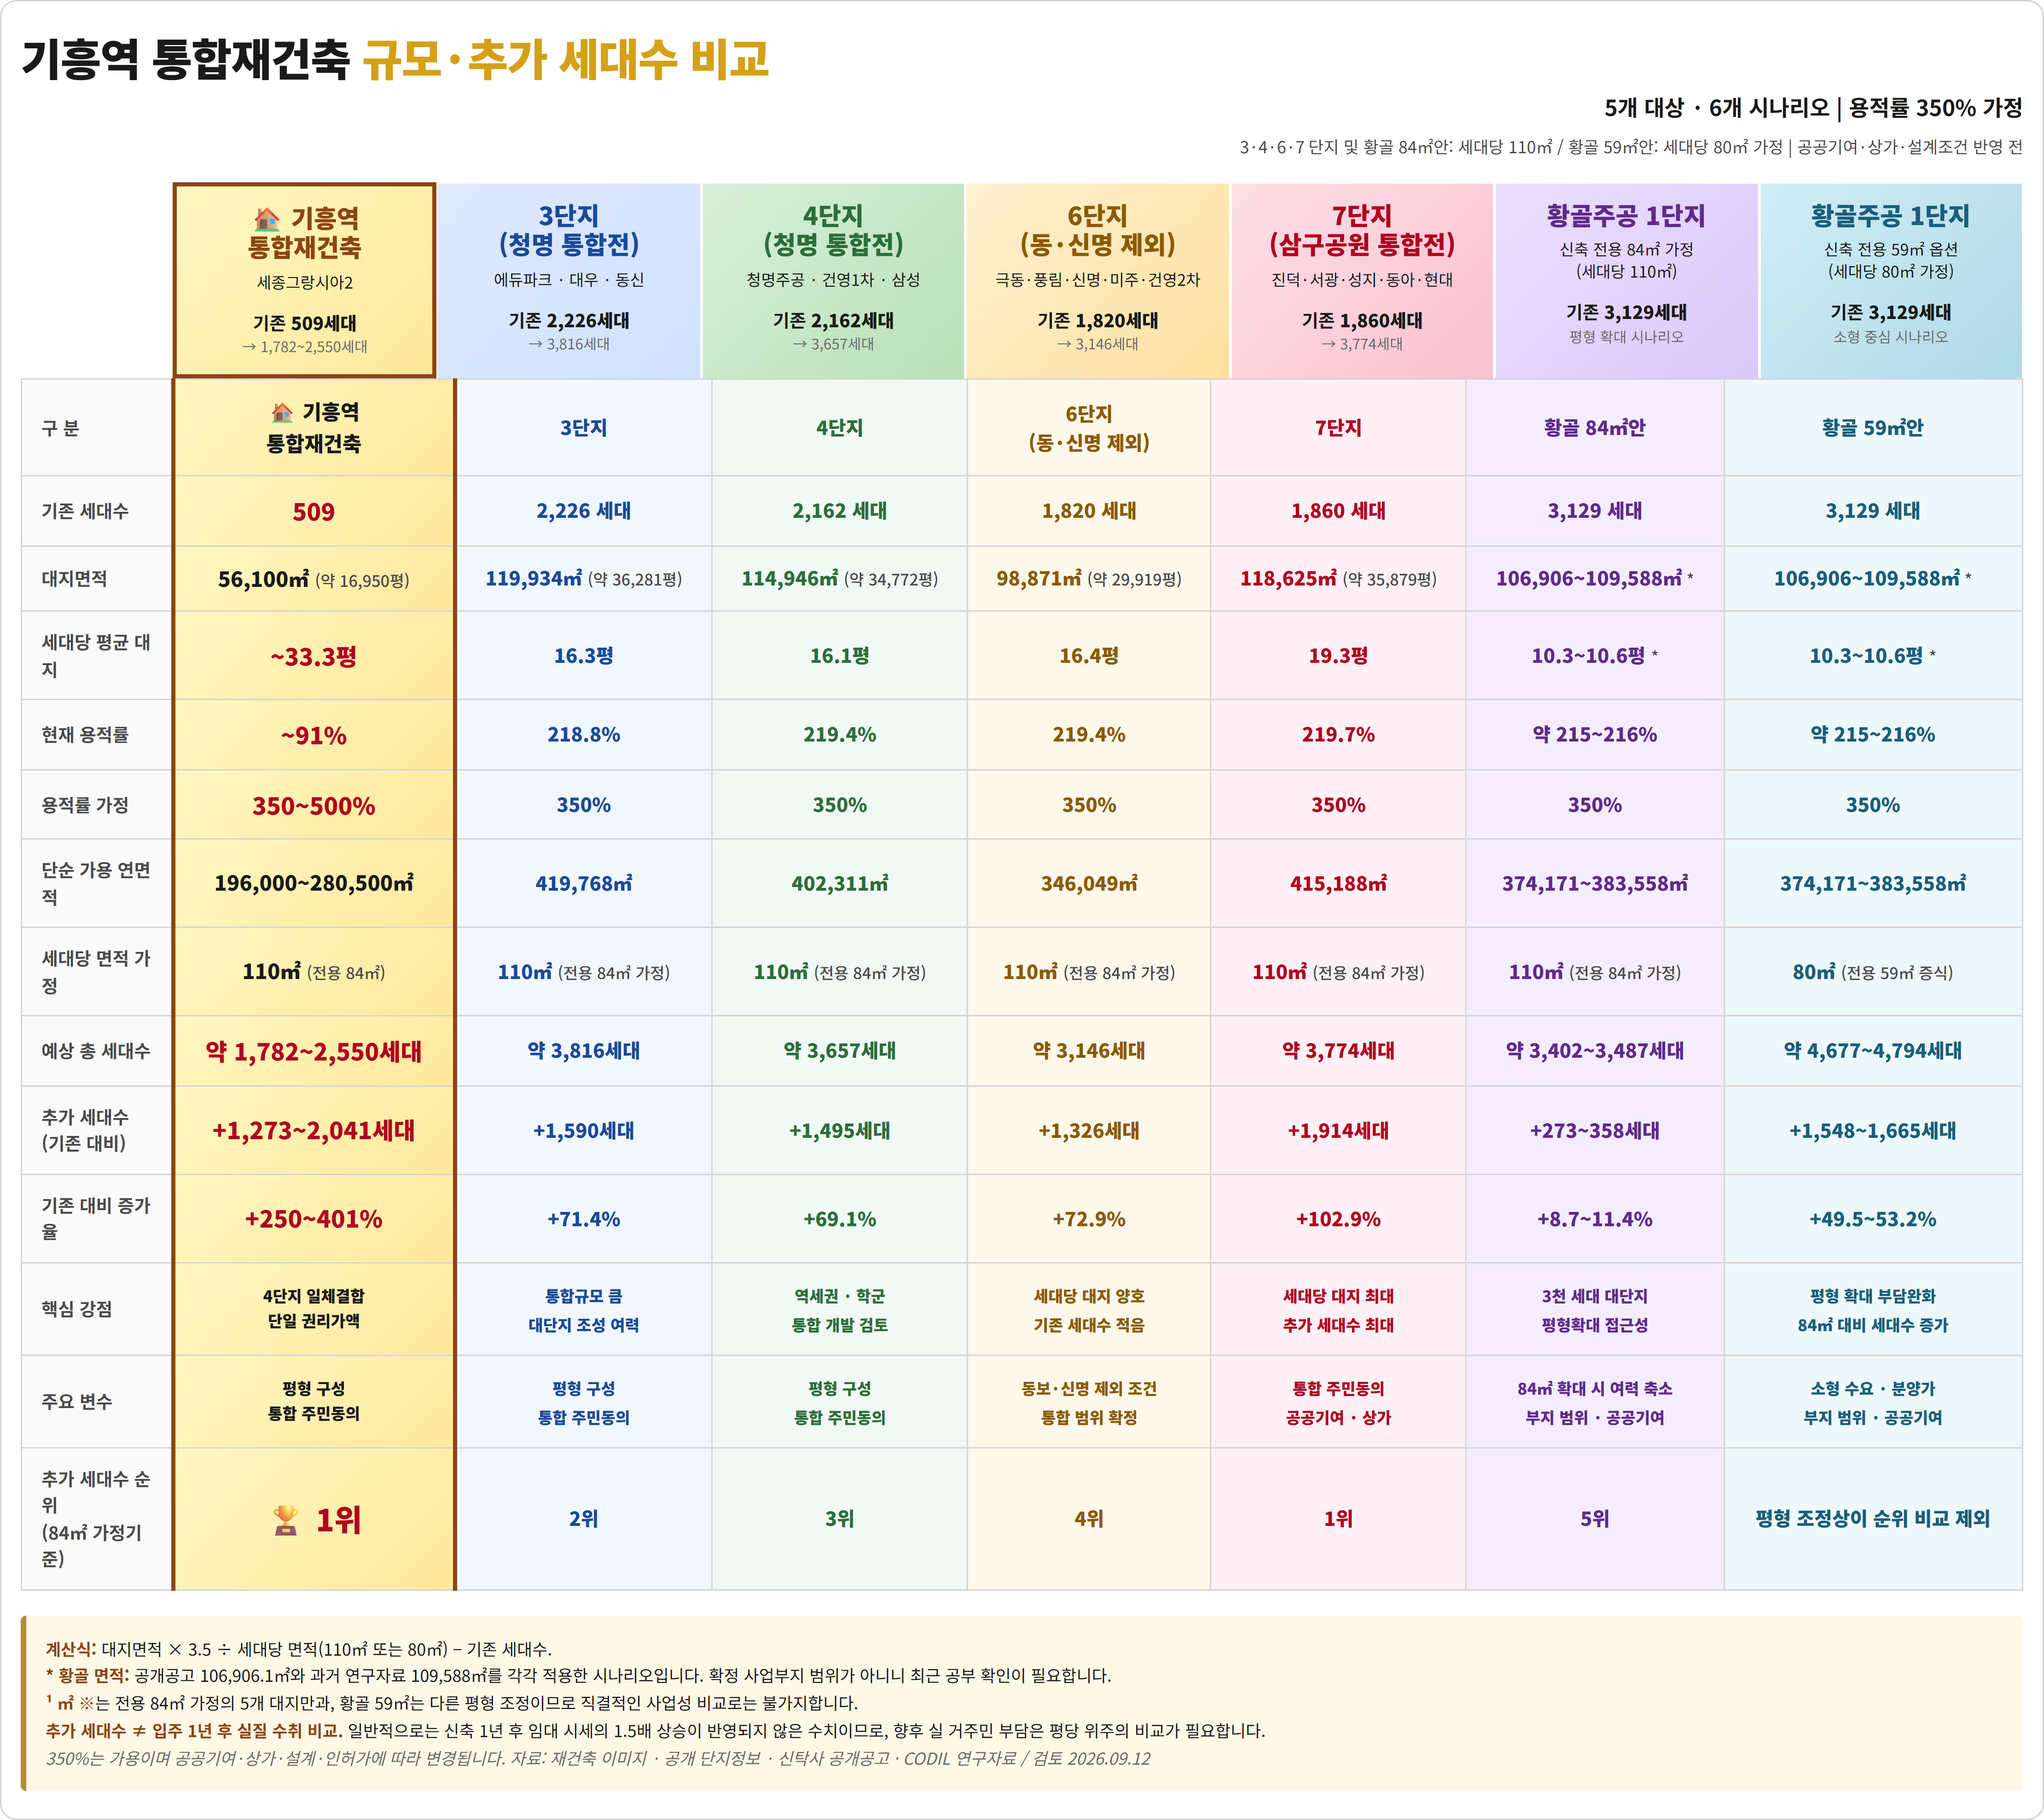
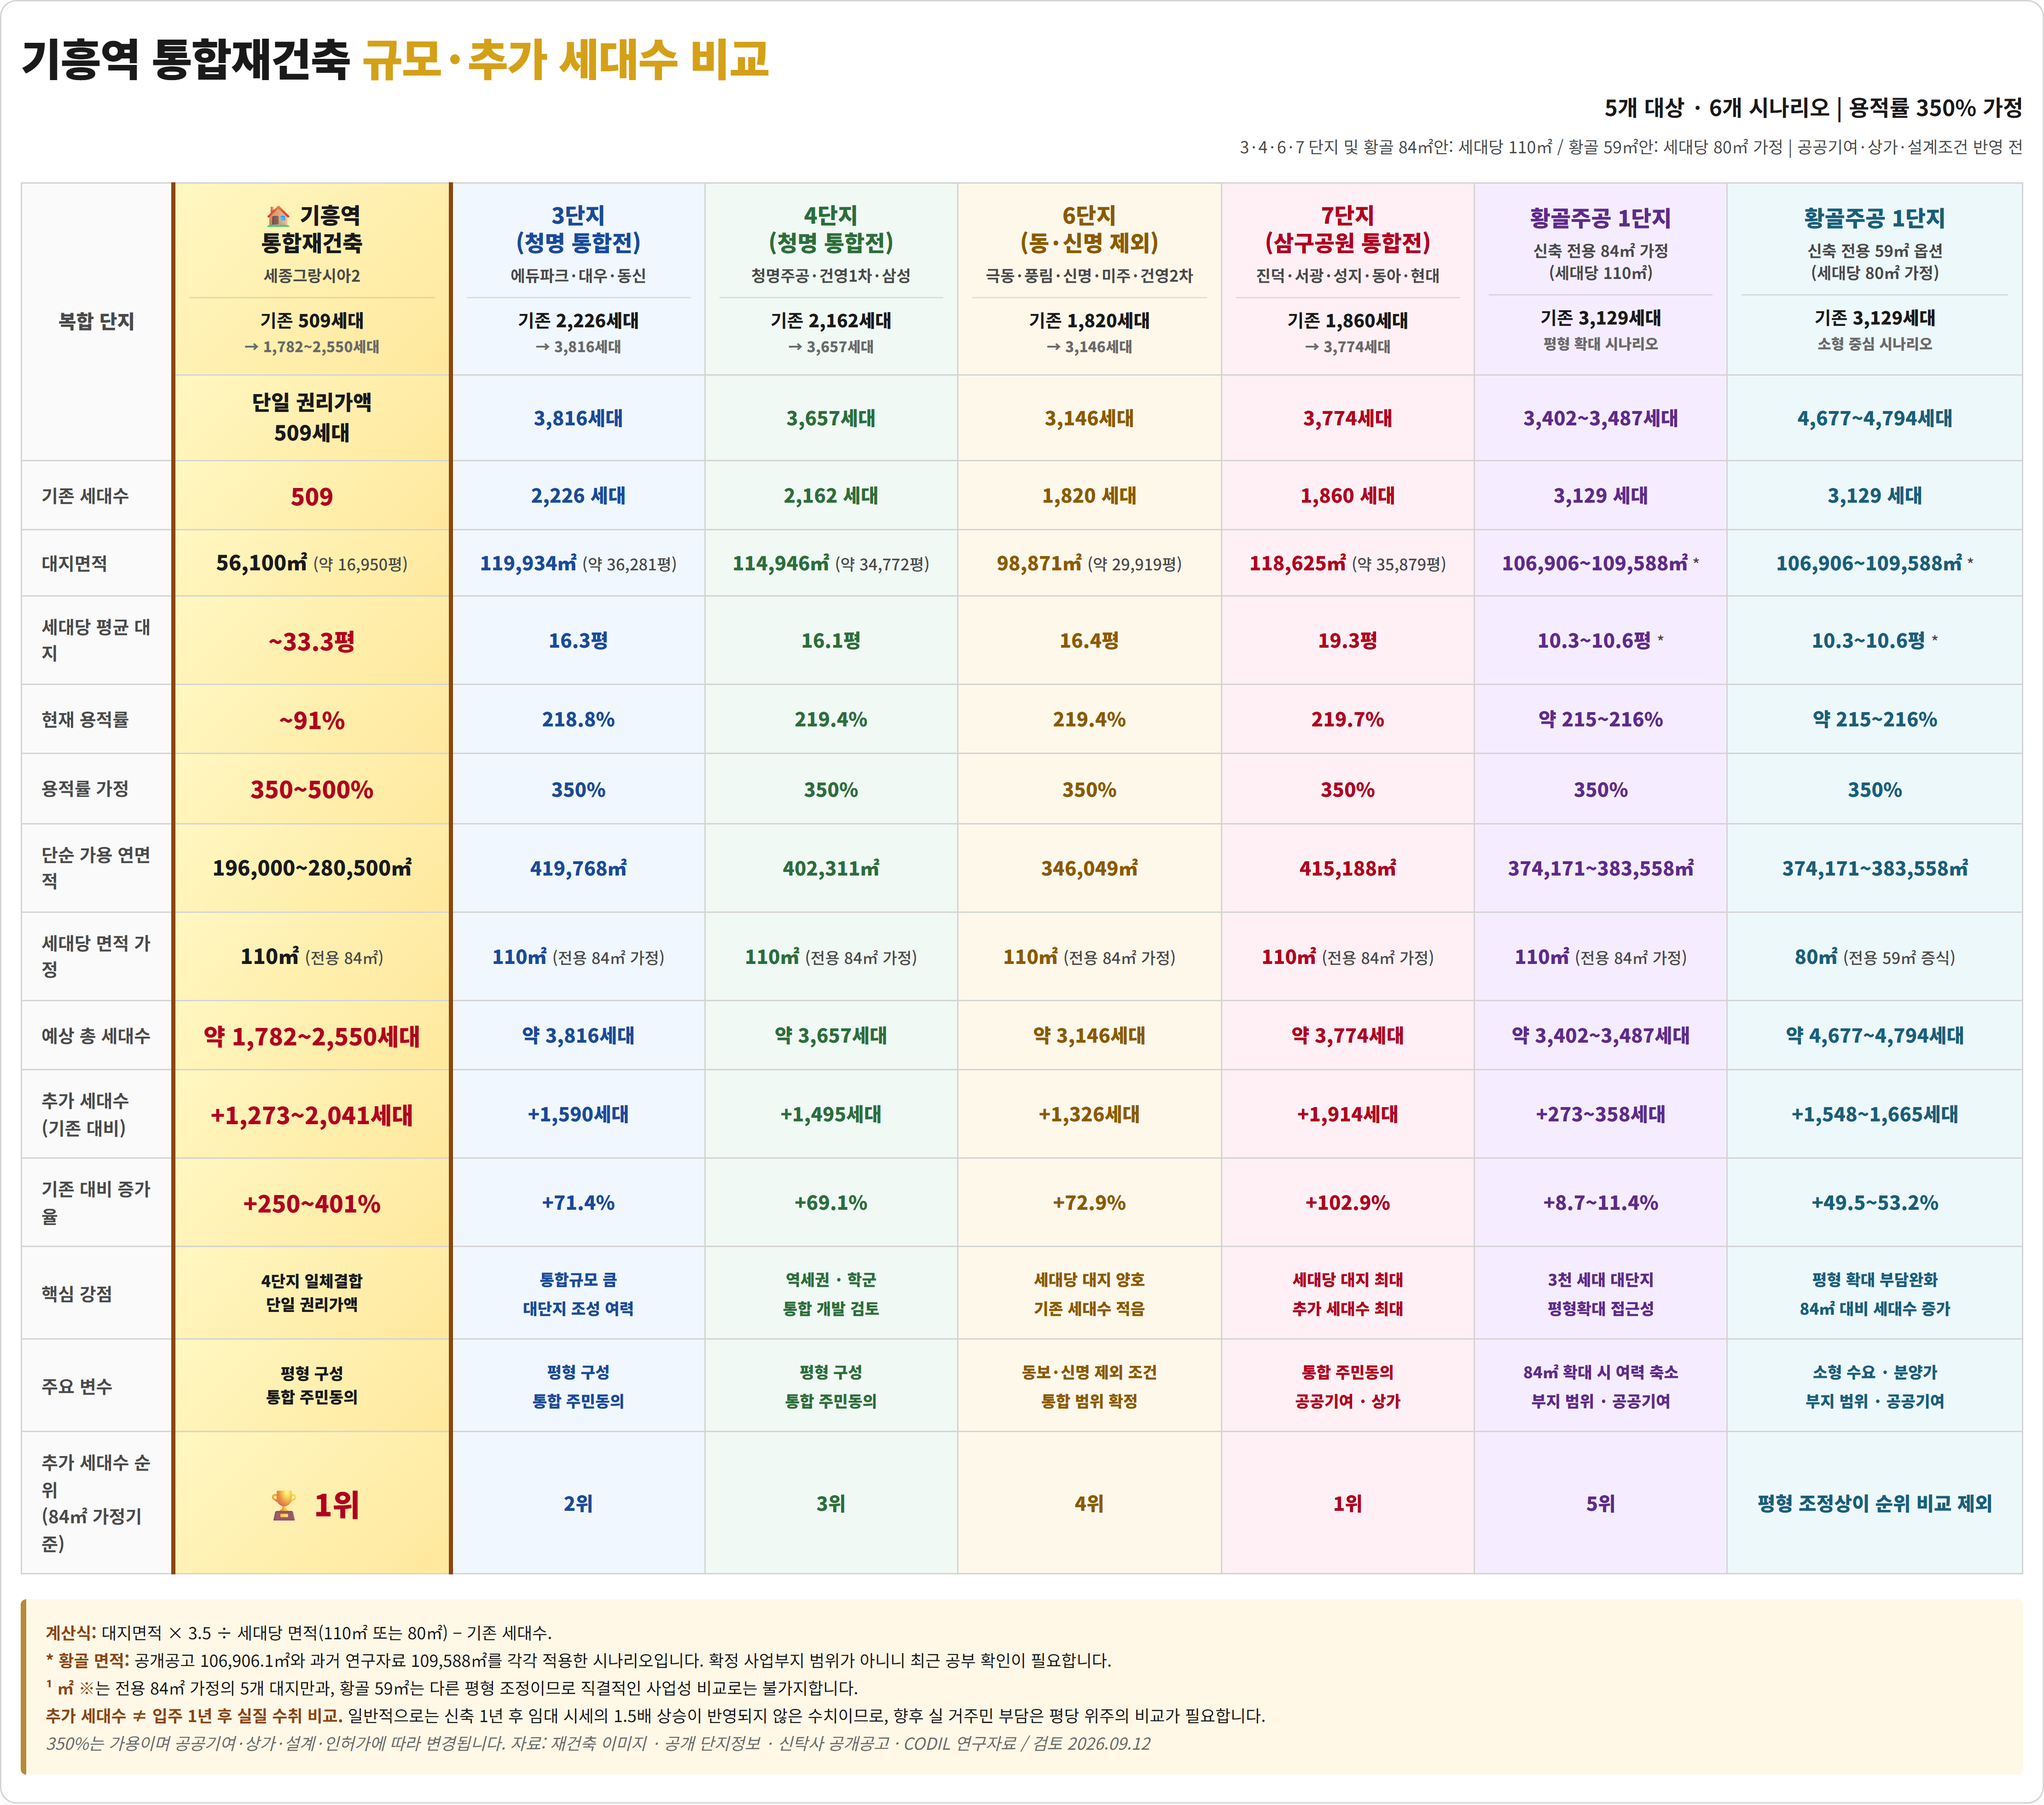
v89: 헤더+데이터를 단일 <table>로 통합, colgroup으로 컬럼 폭 고정 (perfect align)

diff --git a/compare-image.html b/compare-image.html
@@ -52,57 +52,47 @@
     gap: 0;
     margin-bottom: 0;
   }
-  .header-cell {
-    padding: 12px 10px;
-    border: 1px solid #fff;
-    border-bottom: 0;
-    text-align: center;
+  .row-label-complex {
     background: #fafafa;
-    min-height: 110px;
-    display: flex;
-    flex-direction: column;
-    justify-content: flex-start;
+    font-weight: 800;
+    font-size: 14px;
+    text-align: center;
+    color: #4a4a4a;
+    padding: 14px 10px;
+    border-right: 2px solid #b8893a;
   }
-  .header-cell.empty { background: transparent; border: none; }
-  .header-cell-name {
-    font-size: 18px;
+  .h-name {
+    font-size: 16px;
     font-weight: 900;
     margin-bottom: 6px;
-    line-height: 1.2;
+    line-height: 1.25;
   }
-  .header-cell-sub {
-    font-size: 12px;
-    color: #1a1a1a;
+  .h-sub {
+    font-size: 11.5px;
+    color: #4a4a4a;
     margin-bottom: 8px;
+    line-height: 1.4;
     font-weight: 600;
   }
-  .header-cell-detail {
-    font-size: 11.5px;
-    color: #1a1a1a;
-    line-height: 1.4;
-    margin-bottom: 8px;
-  }
-  .header-cell-image {
-    width: 100%;
-    height: 80px;
-    background: #e8e8e8;
-    border-radius: 6px;
-    display: flex;
-    align-items: center;
-    justify-content: center;
-    font-size: 11px;
-    color: #6a6a6a;
-    margin: 6px 0;
-  }
-  .header-cell-meta {
+  .h-meta {
     font-size: 13px;
     font-weight: 700;
     color: #1a1a1a;
-    margin-top: 4px;
+    margin-top: 6px;
+    padding-top: 6px;
+    border-top: 1px solid rgba(0,0,0,0.1);
   }
-  .header-cell-meta-sub {
+  .h-meta strong { font-weight: 900; }
+  .h-meta-sub {
     font-size: 10.5px;
     color: #6a6a6a;
+    margin-top: 2px;
+  }
+  .col-subheader {
+    font-size: 12px;
+    font-weight: 800;
+    padding: 8px 10px !important;
+    border-top: 0;
   }
   /* === COMPLEX COLORS (matching attachment) === */
   .header-cell.col-ours {
@@ -199,95 +189,76 @@
   <p class="compare-subtitle-mini">5개 대상 · 6개 시나리오 | 용적률 350% 가정</p>
   <p class="compare-meta">3·4·6·7 단지 및 황골 84㎡안: 세대당 110㎡ / 황골 59㎡안: 세대당 80㎡ 가정 | 공공기여·상가·설계조건 반영 전</p>
 
-  <!-- Header row of complex boxes -->
-  <div class="compare-header-row">
-    <div class="header-cell empty"></div>
-    <div class="header-cell col-ours">
-      <div>
-        <div class="header-cell-name">🏠 기흥역<br>통합재건축</div>
-        <div class="header-cell-detail">세종그랑시아2</div>
-      </div>
-      <div>
-        <div class="header-cell-meta">기존 <strong>509세대</strong></div>
-        <div class="header-cell-meta-sub">→ 1,782~2,550세대</div>
-      </div>
-    </div>
-    <div class="header-cell col-3">
-      <div>
-        <div class="header-cell-name">3단지<br>(청명 통합전)</div>
-        <div class="header-cell-detail">에듀파크 · 대우 · 동신</div>
-      </div>
-      <div>
-        <div class="header-cell-meta">기존 <strong>2,226세대</strong></div>
-        <div class="header-cell-meta-sub">→ 3,816세대</div>
-      </div>
-    </div>
-    <div class="header-cell col-4">
-      <div>
-        <div class="header-cell-name">4단지<br>(청명 통합전)</div>
-        <div class="header-cell-detail">청명주공 · 건영1차 · 삼성</div>
-      </div>
-      <div>
-        <div class="header-cell-meta">기존 <strong>2,162세대</strong></div>
-        <div class="header-cell-meta-sub">→ 3,657세대</div>
-      </div>
-    </div>
-    <div class="header-cell col-6">
-      <div>
-        <div class="header-cell-name">6단지<br>(동·신명 제외)</div>
-        <div class="header-cell-detail">극동·풍림·신명·미주·건영2차</div>
-      </div>
-      <div>
-        <div class="header-cell-meta">기존 <strong>1,820세대</strong></div>
-        <div class="header-cell-meta-sub">→ 3,146세대</div>
-      </div>
-    </div>
-    <div class="header-cell col-7">
-      <div>
-        <div class="header-cell-name">7단지<br>(삼구공원 통합전)</div>
-        <div class="header-cell-detail">진덕·서광·성지·동아·현대</div>
-      </div>
-      <div>
-        <div class="header-cell-meta">기존 <strong>1,860세대</strong></div>
-        <div class="header-cell-meta-sub">→ 3,774세대</div>
-      </div>
-    </div>
-    <div class="header-cell col-84">
-      <div>
-        <div class="header-cell-name">황골주공 1단지</div>
-        <div class="header-cell-detail">신축 전용 84㎡ 가정<br>(세대당 110㎡)</div>
-      </div>
-      <div>
-        <div class="header-cell-meta">기존 <strong>3,129세대</strong></div>
-        <div class="header-cell-meta-sub">평형 확대 시나리오</div>
-      </div>
-    </div>
-    <div class="header-cell col-59">
-      <div>
-        <div class="header-cell-name">황골주공 1단지</div>
-        <div class="header-cell-detail">신축 전용 59㎡ 옵션<br>(세대당 80㎡ 가정)</div>
-      </div>
-      <div>
-        <div class="header-cell-meta">기존 <strong>3,129세대</strong></div>
-        <div class="header-cell-meta-sub">소형 중심 시나리오</div>
-      </div>
-    </div>
-  </div>
+  
+  
 
   <!-- Data table -->
   <table class="compare-table">
+    <colgroup>
+      <col style="width: 110px;">
+      <col>
+      <col>
+      <col>
+      <col>
+      <col>
+      <col>
+      <col>
+    </colgroup>
     <thead>
       <tr>
-        <th class="row-label" rowspan="2" style="background:#fafafa;">구 분</th>
-        <th class="col-data-ours">🏠 기흥역<br>통합재건축</th>
-        <th class="col-data-3">3단지</th>
-        <th class="col-data-4">4단지</th>
-        <th class="col-data-6">6단지<br>(동·신명 제외)</th>
-        <th class="col-data-7">7단지</th>
-        <th class="col-data-84">황골 84㎡안</th>
-        <th class="col-data-59">황골 59㎡안</th>
+        <th class="row-label-complex" rowspan="2">복합 단지</th>
+        <th class="col-data-ours">
+          <div class="h-name">🏠 기흥역<br>통합재건축</div>
+          <div class="h-sub">세종그랑시아2</div>
+          <div class="h-meta">기존 <strong>509세대</strong></div>
+          <div class="h-meta-sub">→ 1,782~2,550세대</div>
+        </th>
+        <th class="col-data-3">
+          <div class="h-name">3단지<br>(청명 통합전)</div>
+          <div class="h-sub">에듀파크·대우·동신</div>
+          <div class="h-meta">기존 <strong>2,226세대</strong></div>
+          <div class="h-meta-sub">→ 3,816세대</div>
+        </th>
+        <th class="col-data-4">
+          <div class="h-name">4단지<br>(청명 통합전)</div>
+          <div class="h-sub">청명주공·건영1차·삼성</div>
+          <div class="h-meta">기존 <strong>2,162세대</strong></div>
+          <div class="h-meta-sub">→ 3,657세대</div>
+        </th>
+        <th class="col-data-6">
+          <div class="h-name">6단지<br>(동·신명 제외)</div>
+          <div class="h-sub">극동·풍림·신명·미주·건영2차</div>
+          <div class="h-meta">기존 <strong>1,820세대</strong></div>
+          <div class="h-meta-sub">→ 3,146세대</div>
+        </th>
+        <th class="col-data-7">
+          <div class="h-name">7단지<br>(삼구공원 통합전)</div>
+          <div class="h-sub">진덕·서광·성지·동아·현대</div>
+          <div class="h-meta">기존 <strong>1,860세대</strong></div>
+          <div class="h-meta-sub">→ 3,774세대</div>
+        </th>
+        <th class="col-data-84">
+          <div class="h-name">황골주공 1단지</div>
+          <div class="h-sub">신축 전용 84㎡ 가정<br>(세대당 110㎡)</div>
+          <div class="h-meta">기존 <strong>3,129세대</strong></div>
+          <div class="h-meta-sub">평형 확대 시나리오</div>
+        </th>
+        <th class="col-data-59">
+          <div class="h-name">황골주공 1단지</div>
+          <div class="h-sub">신축 전용 59㎡ 옵션<br>(세대당 80㎡ 가정)</div>
+          <div class="h-meta">기존 <strong>3,129세대</strong></div>
+          <div class="h-meta-sub">소형 중심 시나리오</div>
+        </th>
       </tr>
-      <tr></tr>
+      <tr>
+        <th class="col-data-ours col-subheader">단일 권리가액<br>509세대</th>
+        <th class="col-data-3 col-subheader">3,816세대</th>
+        <th class="col-data-4 col-subheader">3,657세대</th>
+        <th class="col-data-6 col-subheader">3,146세대</th>
+        <th class="col-data-7 col-subheader">3,774세대</th>
+        <th class="col-data-84 col-subheader">3,402~3,487세대</th>
+        <th class="col-data-59 col-subheader">4,677~4,794세대</th>
+      </tr>
     </thead>
     <tbody>
       <tr><th class="row-label">기존 세대수</th><td class="col-data-ours"><span class="num">509</span></td><td class="col-data-3">2,226 세대</td><td class="col-data-4">2,162 세대</td><td class="col-data-6">1,820 세대</td><td class="col-data-7">1,860 세대</td><td class="col-data-84">3,129 세대</td><td class="col-data-59">3,129 세대</td></tr>
@@ -303,6 +274,7 @@
       <tr><th class="row-label">핵심 강점</th><td class="col-data-ours"><span style="font-size:11.5px;line-height:1.5;display:block;">4단지 일체결합<br>단일 권리가액</span></td><td class="col-data-3"><span style="font-size:11.5px;">통합규모 큼<br>대단지 조성 여력</span></td><td class="col-data-4"><span style="font-size:11.5px;">역세권 · 학군<br>통합 개발 검토</span></td><td class="col-data-6"><span style="font-size:11.5px;">세대당 대지 양호<br>기존 세대수 적음</span></td><td class="col-data-7"><span style="font-size:11.5px;">세대당 대지 최대<br>추가 세대수 최대</span></td><td class="col-data-84"><span style="font-size:11.5px;">3천 세대 대단지<br>평형확대 접근성</span></td><td class="col-data-59"><span style="font-size:11.5px;">평형 확대 부담완화<br>84㎡ 대비 세대수 증가</span></td></tr>
       <tr><th class="row-label">주요 변수</th><td class="col-data-ours"><span style="font-size:11.5px;line-height:1.5;display:block;">평형 구성<br>통합 주민동의</span></td><td class="col-data-3"><span style="font-size:11.5px;">평형 구성<br>통합 주민동의</span></td><td class="col-data-4"><span style="font-size:11.5px;">평형 구성<br>통합 주민동의</span></td><td class="col-data-6"><span style="font-size:11.5px;">동보·신명 제외 조건<br>통합 범위 확정</span></td><td class="col-data-7"><span style="font-size:11.5px;">통합 주민동의<br>공공기여 · 상가</span></td><td class="col-data-84"><span style="font-size:11.5px;">84㎡ 확대 시 여력 축소<br>부지 범위 · 공공기여</span></td><td class="col-data-59"><span style="font-size:11.5px;">소형 수요 · 분양가<br>부지 범위 · 공공기여</span></td></tr>
       <tr><th class="row-label">추가 세대수 순위<br>(84㎡ 가정기준)</th><td class="col-data-ours highlight"><span style="font-size:22px;">🏆 1위</span></td><td class="col-data-3">2위</td><td class="col-data-4">3위</td><td class="col-data-6">4위</td><td class="col-data-7">1위</td><td class="col-data-84">5위</td><td class="col-data-59">평형 조정상이 순위 비교 제외</td></tr>
+    
     </tbody>
   </table>
 

diff --git a/_set_dpi.py b/_set_dpi.py
@@ -2,4 +2,6 @@ from PIL import Image
 img = Image.open(r"C:/Users/glabr/.cloudflared/sites/sejong/compare-output.png")
 img.save(r"C:/Users/glabr/.cloudflared/sites/sejong/compare-output.png", dpi=(300, 300), optimize=True)
 print("Size:", img.size)
-print("Bytes:", __import__('os').path.getsize(r"C:/Users/glabr/.cloudflared/sites/sejong/compare-output.png"))
+print("DPI:", Image.open(r"C:/Users/glabr/.cloudflared/sites/sejong/compare-output.png").info.get('dpi'))
+import os
+print("Bytes:", os.path.getsize(r"C:/Users/glabr/.cloudflared/sites/sejong/compare-output.png"))
